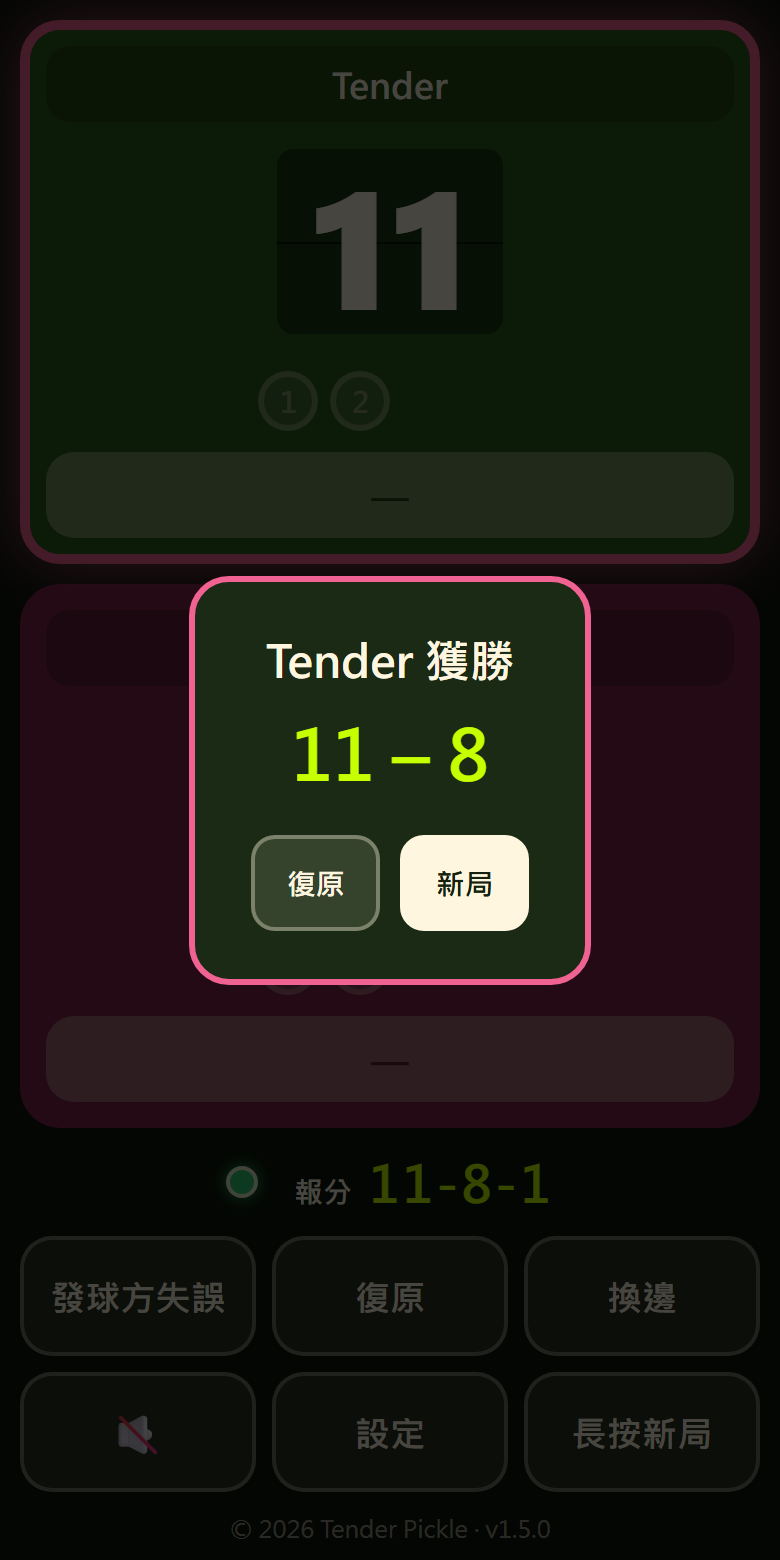
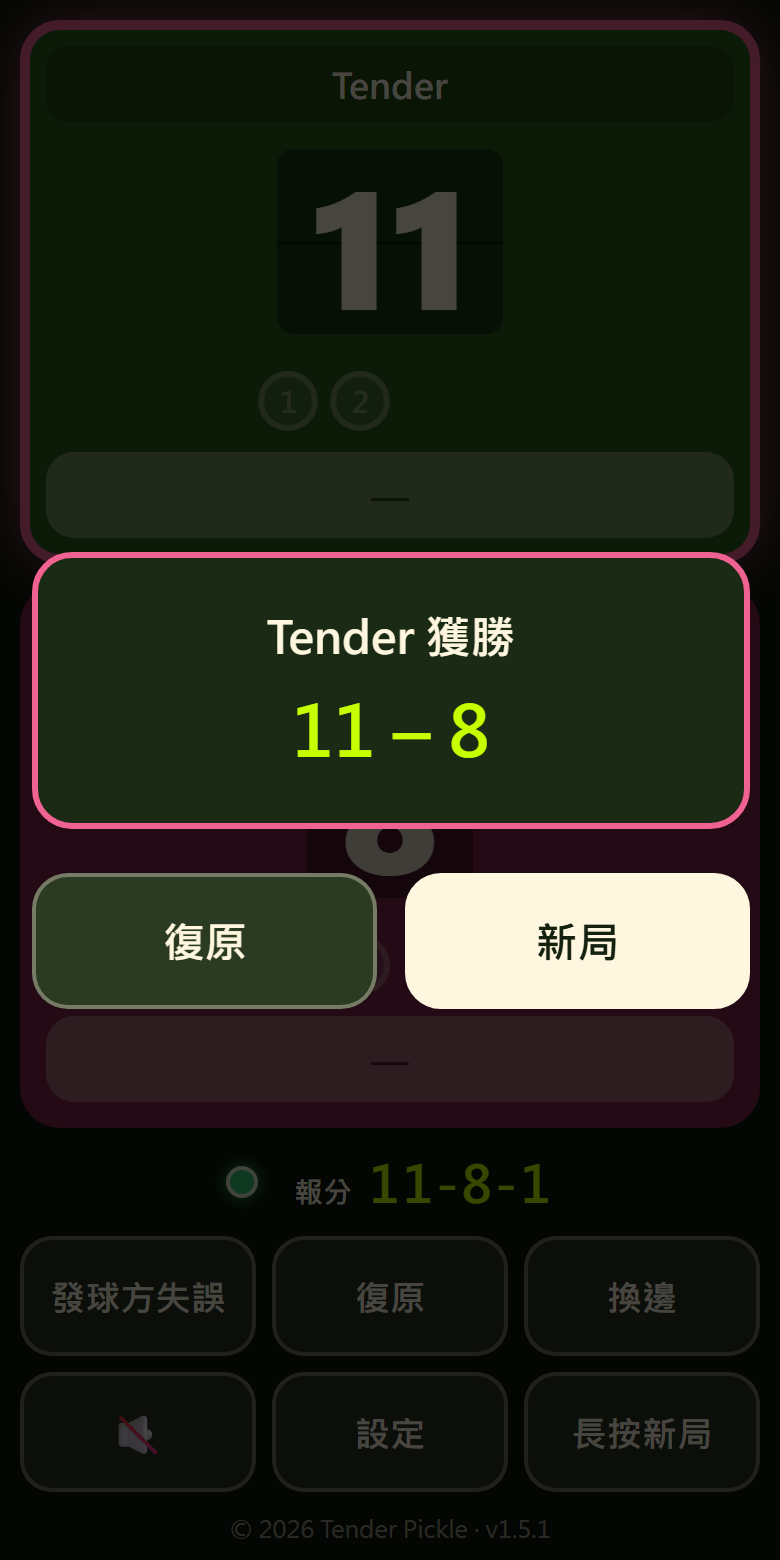
v1.5.1: game-over buttons moved below the result card and enlarged

Changed region(s): [[0.0308, 0.3385, 0.9846, 0.6462], [0.4923, 0.4615, 0.5538, 0.4923], [0.6769, 0.9538, 0.7077, 0.9846]]

diff --git a/style.css b/style.css
@@ -281,6 +281,7 @@ footer {
   padding: 16px;
 }
 .over-card {
+  width: 100%;
   background: #1a2a14;
   border: 3px solid var(--pink);
   border-radius: 20px;
@@ -289,8 +290,16 @@ footer {
   max-width: 92vw;
 }
 .over-card h2 { margin: 0 0 8px; font-size: clamp(1.4rem, 5vmin, 2.6rem); }
-.over-card p { margin: 0 0 18px; font-size: clamp(2rem, 9vmin, 5rem); font-weight: 900; color: var(--lamp); }
-.over-actions { display: flex; gap: 10px; justify-content: center; }
+.over-card p { margin: 0; font-size: clamp(2rem, 9vmin, 5rem); font-weight: 900; color: var(--lamp); }
+.over-wrap { display: flex; flex-direction: column; align-items: center; gap: 22px; width: min(92vw, 560px); }
+.over-actions { display: flex; gap: 14px; justify-content: center; width: 100%; }
+#over .over-actions button:not(.primary) { background: #2b3a22; }
+#over .over-actions button {
+  flex: 1;
+  min-height: clamp(68px, 11vmin, 100px);
+  border-radius: 18px;
+  font-size: clamp(1.3rem, 4vmin, 2rem);
+}
 
 .primary { background: var(--btn) !important; color: var(--btn-ink); border-color: var(--btn) !important; }
 

diff --git a/index.html b/index.html
@@ -53,9 +53,11 @@
   <footer>© 2026 Tender Pickle · 嫩肌匹克 <span class="ver"></span></footer>
 
   <div id="over" hidden>
-    <div class="over-card" role="alertdialog" aria-labelledby="over-title">
-      <h2 id="over-title"></h2>
-      <p id="over-score"></p>
+    <div class="over-wrap">
+      <div class="over-card" role="alertdialog" aria-labelledby="over-title">
+        <h2 id="over-title"></h2>
+        <p id="over-score"></p>
+      </div>
       <div class="over-actions">
         <button id="over-undo" type="button" data-i18n="undo"></button>
         <button id="over-new" type="button" class="primary" data-i18n="newGameShort"></button>

diff --git a/sw.js b/sw.js
@@ -3,7 +3,7 @@
  * when offline (or the network is slower than TIMEOUT) the cached copy is used.
  * Bump CACHE (and VERSION in app.js) when any file changes.
  */
-var CACHE = 'tender-pickle-v1.5.0';
+var CACHE = 'tender-pickle-v1.5.1';
 var TIMEOUT = 4000;
 var FILES = [
   './', 'index.html', 'style.css', 'engine.js', 'app.js', 'manifest.json',

diff --git a/app.js b/app.js
@@ -4,7 +4,7 @@
 
   var E = PickleEngine;
   var KEY = 'tps.v1';
-  var VERSION = '1.5.0'; // keep in sync with CACHE in sw.js
+  var VERSION = '1.5.1'; // keep in sync with CACHE in sw.js
 
   var I18N = {
     'zh-TW': {
